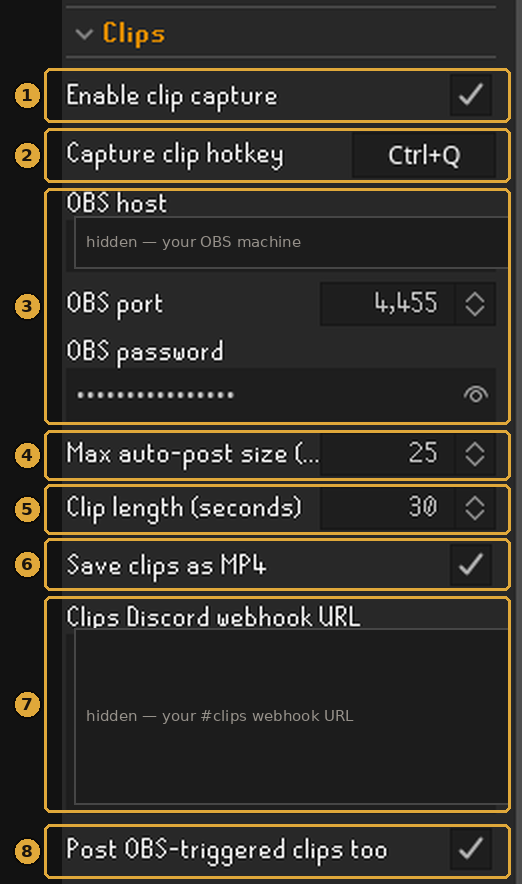
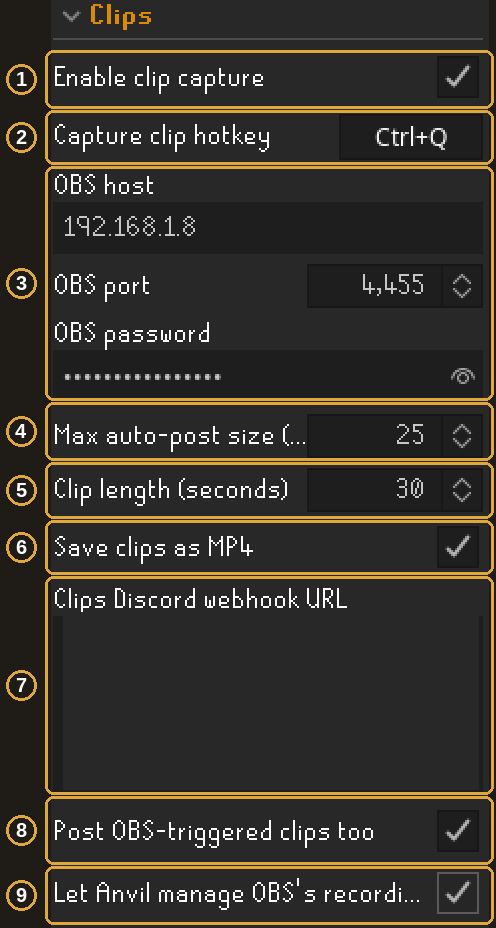
Retake the config figures, and redact the webhook out of one
Both screenshots showed settings that no longer exist, so the callouts numbered things a reader
cannot find. Retaken against the current config: Bingo is down to three rows, and Clips gains the
one it was missing — "Let Anvil manage OBS's recording folder", written up in all sixteen languages
because it is the setting that decides whether a clip can post itself at all.

The Clips shot had a live Discord webhook URL readable in it, token and all. It is painted out at
source resolution, and the field is masked in the plugin now, so the next screenshot of it cannot
carry one.

diff --git a/src/app/guide/_i18n/ar.ts b/src/app/guide/_i18n/ar.ts
@@ -736,6 +736,10 @@ const ar: PartialGuideDict = {
             label: 'Post OBS-triggered clips too',
             body: 'يتعامل أيضًا مع الحفظ الذي يبدأه OBS نفسه أو إضافة “Save Replay Buffer for OBS”. اتركه مطفأً إن كنت تشغّل عميلَي RuneLite مقابل OBS واحد، وإلا نُشر كل مقطع مرتين.',
           },
+          {
+            label: "Let Anvil manage OBS's recording folder",
+            body: 'يوجّه مجلد تسجيل OBS إلى مجلد المقاطع الخاص بـ Anvil أثناء تشغيل RuneLite، وهذا ما يتيح للمقطع أن يُنشر من تلقاء نفسه، إذ لا يجوز للإضافة أن تقرأ سوى مجلدها. تُحفظ تسجيلات OBS العادية هناك أيضاً أثناء تفعيله، وتُعاد إعداداتك كما كانت عند إيقافه أو إغلاق RuneLite.',
+          },
         ],
       },
       useHeading: 'ج. استخدمها',

diff --git a/src/app/guide/_i18n/ja.ts b/src/app/guide/_i18n/ja.ts
@@ -736,6 +736,10 @@ const ja: PartialGuideDict = {
             label: 'Post OBS-triggered clips too',
             body: 'OBS 自身や「Save Replay Buffer for OBS」プラグインが起動した保存も扱います。1 つの OBS に対して RuneLite を 2 つ動かしているならオフのままに。さもないとクリップが二重投稿されます。',
           },
+          {
+            label: "Let Anvil manage OBS's recording folder",
+            body: 'RuneLite の起動中だけ OBS の録画フォルダを Anvil のクリップフォルダに向けます。プラグインは自分のフォルダしか読めないため、これがクリップを自動投稿できる唯一の方法です。オンの間は通常の OBS 録画もそこに保存され、オフにするか RuneLite を閉じると元の設定に戻ります。',
+          },
         ],
       },
       useHeading: 'C. 使う',

diff --git a/src/app/guide/_i18n/fr.ts b/src/app/guide/_i18n/fr.ts
@@ -738,6 +738,10 @@ const fr: PartialGuideDict = {
             label: 'Post OBS-triggered clips too',
             body: 'traite aussi les enregistrements déclenchés par OBS lui-même ou par le plugin « Save Replay Buffer for OBS ». Laissez-le désactivé si vous faites tourner deux clients RuneLite contre un seul OBS, sinon chaque clip est publié deux fois.',
           },
+          {
+            label: "Let Anvil manage OBS's recording folder",
+            body: 'pointe le dossier d’enregistrement d’OBS vers le dossier de clips d’Anvil pendant que RuneLite tourne : c’est ce qui permet à un clip de se publier seul, le plugin ne pouvant lire que son propre dossier. Vos enregistrements OBS ordinaires y vont aussi pendant ce temps, et votre réglage est rétabli quand vous le désactivez ou fermez RuneLite.',
+          },
         ],
       },
       useHeading: 'C. L’utiliser',

diff --git a/src/app/guide/_i18n/ko.ts b/src/app/guide/_i18n/ko.ts
@@ -736,6 +736,10 @@ const ko: PartialGuideDict = {
             label: 'Post OBS-triggered clips too',
             body: 'OBS 자체나 “Save Replay Buffer for OBS” 플러그인이 일으킨 저장도 처리합니다. OBS 하나에 RuneLite 두 개를 물려 돌린다면 꺼 두세요. 그러지 않으면 모든 클립이 두 번 올라갑니다.',
           },
+          {
+            label: "Let Anvil manage OBS's recording folder",
+            body: 'RuneLite 가 실행되는 동안 OBS 의 녹화 폴더를 Anvil 의 클립 폴더로 돌립니다. 플러그인은 자기 폴더만 읽을 수 있으므로, 클립이 스스로 올라가려면 이 방법뿐입니다. 켜져 있는 동안에는 평소 OBS 녹화도 그곳에 저장되며, 끄거나 RuneLite 를 닫으면 원래 설정으로 되돌립니다.',
+          },
         ],
       },
       useHeading: 'C. 사용하기',

diff --git a/src/app/guide/_i18n/de.ts b/src/app/guide/_i18n/de.ts
@@ -737,6 +737,10 @@ const de: PartialGuideDict = {
             label: 'Post OBS-triggered clips too',
             body: 'behandelt auch Speicherungen, die OBS selbst oder das Plugin „Save Replay Buffer for OBS“ auslöst. Lass es aus, wenn du zwei RuneLite-Clients gegen ein OBS laufen lässt, sonst wird jeder Clip doppelt gepostet.',
           },
+          {
+            label: "Let Anvil manage OBS's recording folder",
+            body: 'richtet den Aufnahmeordner von OBS auf Anvils eigenen Clips-Ordner, solange RuneLite läuft — nur so kann sich ein Clip selbst posten, denn das Plugin darf ausschließlich seinen eigenen Ordner lesen. Deine normalen OBS-Aufnahmen landen währenddessen ebenfalls dort, und deine Einstellung wird zurückgesetzt, wenn du es ausschaltest oder RuneLite schließt.',
+          },
         ],
       },
       useHeading: 'C. Benutzen',

diff --git a/src/app/guide/_i18n/it.ts b/src/app/guide/_i18n/it.ts
@@ -726,6 +726,10 @@ const it: PartialGuideDict = {
             label: 'Post OBS-triggered clips too',
             body: 'gestisce anche i salvataggi avviati da OBS stesso o dal plugin “Save Replay Buffer for OBS”. Lascialo spento se usi due client RuneLite contro un solo OBS, altrimenti ogni clip viene pubblicata due volte.',
           },
+          {
+            label: "Let Anvil manage OBS's recording folder",
+            body: 'punta la cartella di registrazione di OBS alla cartella clip di Anvil mentre RuneLite è aperto: è ciò che permette a una clip di pubblicarsi da sola, perché il plugin può leggere solo la propria cartella. Anche le tue normali registrazioni OBS finiscono lì nel frattempo, e la tua impostazione viene ripristinata quando lo disattivi o chiudi RuneLite.',
+          },
         ],
       },
       useHeading: 'C. Usalo',

diff --git a/src/app/guide/_i18n/pt-br.ts b/src/app/guide/_i18n/pt-br.ts
@@ -726,6 +726,10 @@ const ptBr: PartialGuideDict = {
             label: 'Post OBS-triggered clips too',
             body: 'também trata salvamentos disparados pelo próprio OBS ou pelo plugin “Save Replay Buffer for OBS”. Deixe desligado se você roda dois clientes RuneLite contra um único OBS, senão todo clipe é publicado duas vezes.',
           },
+          {
+            label: "Let Anvil manage OBS's recording folder",
+            body: 'aponta a pasta de gravação do OBS para a pasta de clipes do Anvil enquanto o RuneLite está aberto: é o que permite a um clipe se publicar sozinho, já que o plugin só pode ler a própria pasta. Suas gravações normais do OBS também vão para lá enquanto isso, e sua configuração é restaurada ao desligar isto ou fechar o RuneLite.',
+          },
         ],
       },
       useHeading: 'C. Use',

diff --git a/src/app/guide/_i18n/pl.ts b/src/app/guide/_i18n/pl.ts
@@ -726,6 +726,10 @@ const pl: PartialGuideDict = {
             label: 'Post OBS-triggered clips too',
             body: 'obsługuje także zapisy wyzwolone przez sam OBS albo przez plugin „Save Replay Buffer for OBS”. Zostaw wyłączone, jeśli używasz dwóch klientów RuneLite przy jednym OBS, bo inaczej każdy klip publikuje się dwa razy.',
           },
+          {
+            label: "Let Anvil manage OBS's recording folder",
+            body: 'kieruje folder nagrań OBS do własnego folderu klipów Anvil na czas działania RuneLite — tylko dzięki temu klip może opublikować się sam, bo wtyczka może czytać wyłącznie swój folder. Twoje zwykłe nagrania OBS też tam trafiają, gdy to działa, a twoje ustawienie wraca, gdy je wyłączysz albo zamkniesz RuneLite.',
+          },
         ],
       },
       useHeading: 'C. Używaj',

diff --git a/src/app/guide/_i18n/fi.ts b/src/app/guide/_i18n/fi.ts
@@ -737,6 +737,10 @@ const fi: PartialGuideDict = {
             label: 'Post OBS-triggered clips too',
             body: 'käsittelee myös tallennukset jotka OBS itse tai “Save Replay Buffer for OBS” -plugin käynnistää. Jätä pois päältä jos ajat kahta RuneLite-asiakasta yhtä OBS:ää vasten, tai jokainen leike julkaistaan kahdesti.',
           },
+          {
+            label: "Let Anvil manage OBS's recording folder",
+            body: 'osoittaa OBS:n tallennuskansion Anvilin omaan clips-kansioon RuneLiten ollessa käynnissä — vain siten klippi voi lähettää itsensä, sillä lisäosa saa lukea vain omaa kansiotaan. Myös tavalliset OBS-tallenteesi menevät sinne sen ollessa päällä, ja oma asetuksesi palautetaan kun suljet sen tai RuneLiten.',
+          },
         ],
       },
       useHeading: 'C. Käytä sitä',

diff --git a/src/app/guide/_i18n/es.ts b/src/app/guide/_i18n/es.ts
@@ -737,6 +737,10 @@ const es: PartialGuideDict = {
             label: 'Post OBS-triggered clips too',
             body: 'también gestiona los guardados que dispara el propio OBS o el plugin «Save Replay Buffer for OBS». Déjalo apagado si usas dos clientes de RuneLite contra un solo OBS, o cada clip se publicará dos veces.',
           },
+          {
+            label: "Let Anvil manage OBS's recording folder",
+            body: 'apunta la carpeta de grabación de OBS a la carpeta de clips de Anvil mientras RuneLite está abierto, que es lo que permite que un clip se publique solo: el plugin solo puede leer su propia carpeta. Tus grabaciones normales de OBS también irán ahí mientras esté activo, y tu ajuste se restaura al desactivarlo o cerrar RuneLite.',
+          },
         ],
       },
       useHeading: 'C. Úsalo',

diff --git a/src/app/guide/_i18n/sv.ts b/src/app/guide/_i18n/sv.ts
@@ -736,6 +736,10 @@ const sv: PartialGuideDict = {
             label: 'Post OBS-triggered clips too',
             body: 'hanterar även sparningar som utlösts av OBS självt eller av pluginet “Save Replay Buffer for OBS”. Låt den vara av om du kör två RuneLite-klienter mot en OBS, annars postas varje klipp två gånger.',
           },
+          {
+            label: "Let Anvil manage OBS's recording folder",
+            body: 'pekar OBS inspelningsmapp mot Anvils egen klippmapp medan RuneLite är igång — det är så ett klipp kan lägga upp sig självt, eftersom pluginet bara får läsa sin egen mapp. Dina vanliga OBS-inspelningar hamnar också där så länge, och din egen inställning återställs när du slår av det eller stänger RuneLite.',
+          },
         ],
       },
       useHeading: 'C. Använd det',

diff --git a/src/app/guide/_i18n/da.ts b/src/app/guide/_i18n/da.ts
@@ -742,6 +742,10 @@ const da: PartialGuideDict = {
             label: 'Post OBS-triggered clips too',
             body: 'håndterer også gemte klip udløst af OBS selv eller af pluginnet “Save Replay Buffer for OBS”. Lad den være slukket, hvis du kører to RuneLite-klienter mod én OBS — ellers bliver hvert klip postet to gange.',
           },
+          {
+            label: "Let Anvil manage OBS's recording folder",
+            body: 'peger OBS\' optagemappe mod Anvils egen clips-mappe, mens RuneLite kører — det er dét, der lader et klip sende sig selv, for pluginet må kun læse sin egen mappe. Dine almindelige OBS-optagelser havner også der imens, og din egen indstilling sættes tilbage, når du slår det fra eller lukker RuneLite.',
+          },
         ],
       },
       useHeading: 'C. Brug det',
